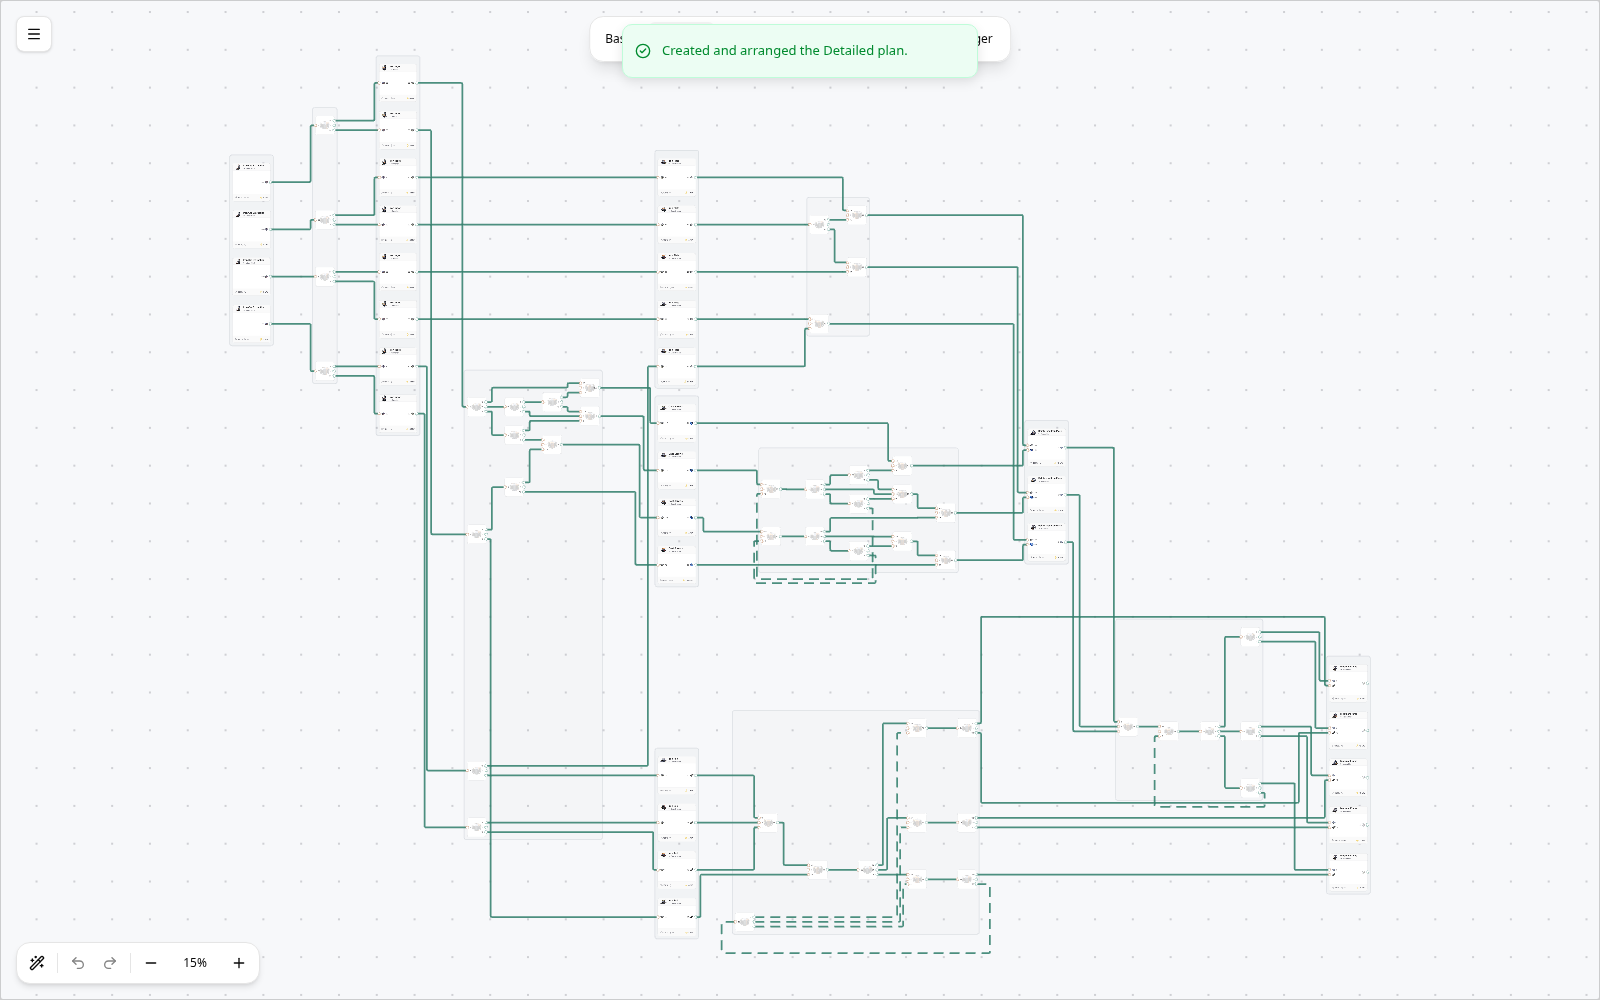
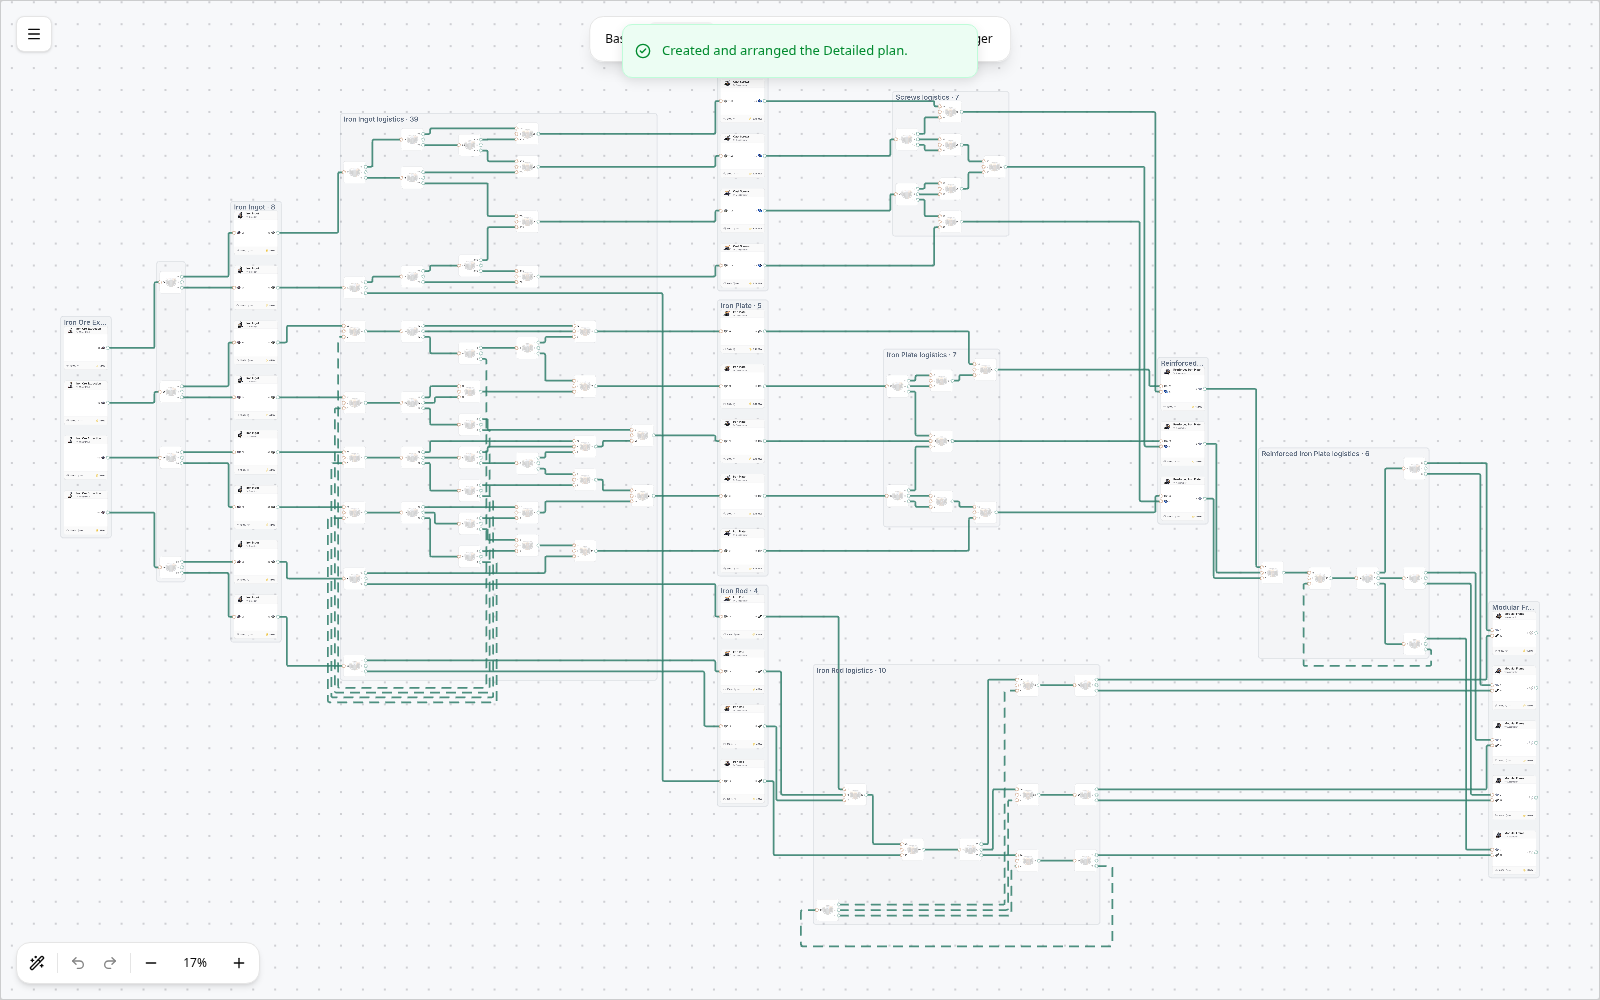
feat(planner): share machine clocks evenly and minimize generated tiers

diff --git a/packages/planning/src/generation.test.ts b/packages/planning/src/generation.test.ts
@@ -1,4 +1,5 @@
 import { describe, expect, it } from "vitest";
+import { createNode } from "@satisfactory-belt/production";
 
 import {
   analyzeBasicPlan,
@@ -13,10 +14,10 @@ const request = {
 
 describe("Plan generation", () => {
   it.each([generateBasicPlan, generateDetailedPlan])(
-    "adds machines instead of overclocking and underclocks the final instance",
+    "shares workload evenly without extra machines or overclocking",
     (generate) => {
       const { plan } = generate({
-        outputs: [{ itemId: "Desc_IronPlate_C", ratePerMinute: 50 }],
+        outputs: [{ itemId: "Desc_IronPlate_C", ratePerMinute: 90 }],
       });
       const clocks = plan.nodes.flatMap(({ configuration }) =>
         configuration.kind === "process" &&
@@ -28,13 +29,67 @@ describe("Plan generation", () => {
             )
           : [],
       );
-      expect(clocks).toEqual([100, 100, 50]);
+      expect(clocks).toEqual([90, 90, 90, 90, 90]);
+      const plates = plan.nodes
+        .filter(
+          ({ configuration }) =>
+            configuration.kind === "process" &&
+            configuration.processId === "Recipe_IronPlate_C",
+        )
+        .map(({ configuration }) => createNode(configuration));
+      expect(
+        plates.reduce(
+          (sum, node) => sum + node.profile.power.consumed.maximumMw,
+          0,
+        ),
+      ).toBeCloseTo(17.3997, 4);
+      expect(
+        plates.reduce(
+          (sum, node) =>
+            sum +
+            (node.profile.materials.kind === "calculated"
+              ? node.profile.materials.outputs[0]!.ratePerMinute
+              : 0),
+          0,
+        ),
+      ).toBeCloseTo(90, 7);
       for (const { configuration } of plan.nodes) {
         if (configuration.kind !== "process") continue;
         for (const instance of configuration.instances)
-          if ("clockSpeedPercent" in instance)
+          if ("clockSpeedPercent" in instance) {
             expect(instance.clockSpeedPercent).toBeLessThanOrEqual(100);
+            expect(instance.clockSpeedPercent).toBeGreaterThanOrEqual(1);
+          }
       }
+    },
+  );
+
+  it.each([20, 50, 60.000000001])(
+    "preserves output and machine count for %s plates/min",
+    (ratePerMinute) => {
+      const { plan } = generateBasicPlan({
+        outputs: [{ itemId: "Desc_IronPlate_C", ratePerMinute }],
+      });
+      const configuration = plan.nodes.find(
+        ({ configuration }) =>
+          configuration.kind === "process" &&
+          configuration.processId === "Recipe_IronPlate_C",
+      )!.configuration;
+      if (configuration.kind !== "process")
+        throw new Error("Expected a process");
+      expect(configuration.instances).toHaveLength(
+        ratePerMinute === 20 ? 1 : 3,
+      );
+      const materials = createNode(configuration).profile.materials;
+      if (materials.kind !== "calculated")
+        throw new Error("Expected calculated output");
+      expect(materials.outputs[0]!.ratePerMinute).toBeCloseTo(ratePerMinute, 7);
+      const clocks = configuration.instances.map((instance) =>
+        "clockSpeedPercent" in instance
+          ? instance.clockSpeedPercent
+          : undefined,
+      );
+      expect(new Set(clocks).size).toBe(1);
     },
   );
 
@@ -74,7 +129,12 @@ describe("Plan generation", () => {
     expect(
       generated.plan.connections.every(({ kind }) => kind === "conveyor"),
     ).toBe(true);
-    expect(() => analyzeDetailedPlan(generated.plan)).not.toThrow();
+    expect(analyzeDetailedPlan(generated.plan).diagnostics).toEqual([]);
+    expect(
+      generated.plan.connections.every(
+        (connection) => connection.tierId === "conveyor-mk1",
+      ),
+    ).toBe(true);
   });
 
   it("balances every split in a generated Modular Frame factory", () => {

diff --git a/apps/web/src/detailed-conversion/convert.test.ts b/apps/web/src/detailed-conversion/convert.test.ts
@@ -70,6 +70,23 @@ describe("Detailed conversion settings", () => {
       "Checking belts and pipes",
     ]);
     expect(result.tiers).toEqual(DEFAULT_LOGISTICS_TIERS);
+    const analysis = analyzeDetailedPlan(result);
+    for (const flow of analysis.connectionFlows) {
+      const connection = result.connections.find(
+        (edge) => edge.id === flow.connectionId,
+      )!;
+      const smallest = result.tiers.find(
+        (tier) =>
+          tier.medium === connection.kind &&
+          tier.capacityPerMinute + 1e-7 >= flow.ratePerMinute,
+      )!;
+      expect(connection.tierId).toBe(smallest.id);
+    }
+    expect(
+      analysis.diagnostics.filter(
+        (diagnostic) => diagnostic.code === "detailed.connection.overload",
+      ),
+    ).toEqual([]);
     expect(
       result.connections.every((connection) =>
         DEFAULT_LOGISTICS_TIERS.some(
@@ -184,11 +201,21 @@ it("enforces pipeline capacity after expanding fluid machines", async () => {
       () => {},
     ),
   ).toThrow("450/min, above its 300/min limit");
-  expect(
-    convertDetailed(
-      document,
-      defaultConversionSettings,
-      () => {},
-    ).connections.every((connection) => connection.tierId === "pipeline-mk2"),
-  ).toBe(true);
+  const upgraded = convertDetailed(
+    document,
+    { ...defaultConversionSettings, pipelineTierId: "pipeline-mk2" },
+    () => {},
+  );
+  const flows = analyzeDetailedPlan(upgraded).connectionFlows;
+  expect(flows.map((flow) => flow.ratePerMinute).sort((a, b) => a - b)).toEqual(
+    [225, 225, 450],
+  );
+  for (const connection of upgraded.connections) {
+    const rate = flows.find(
+      (flow) => flow.connectionId === connection.id,
+    )!.ratePerMinute;
+    expect(connection.tierId).toBe(
+      rate <= 300 ? "pipeline-mk1" : "pipeline-mk2",
+    );
+  }
 });

diff --git a/packages/planning/src/generation.ts b/packages/planning/src/generation.ts
@@ -6,6 +6,7 @@ import {
 
 import { createBasicPlan } from "./basic-topology";
 import { balanceDetailedConveyors } from "./conveyor-balancers";
+import { sizeDetailedConnections } from "./connection-tiers";
 import {
   assertDetailedNodeConfiguration,
   createDetailedPlan,
@@ -43,14 +44,10 @@ type TopologyResult = Readonly<{
 }>;
 
 function activityChunks(activity: number) {
-  const chunks: number[] = [];
-  let remaining = activity;
-  while (remaining > 1e-8) {
-    const chunk = Math.min(1, remaining);
-    chunks.push(chunk);
-    remaining -= chunk;
-  }
-  return chunks.length ? chunks : [1];
+  // Keep the minimum machine count under the 100% cap, then share the load.
+  // The tolerance avoids an extra machine for solver noise at whole counts.
+  const count = Math.max(1, Math.ceil(activity - 1e-8));
+  return Array.from({ length: count }, () => activity / count);
 }
 
 function processConfiguration(
@@ -335,8 +332,10 @@ export function generateDetailedPlan(
     return { ...node, configuration };
   });
   return {
-    plan: balanceDetailedConveyors(
-      createDetailedPlan({ connections, nodes, tiers }),
+    plan: sizeDetailedConnections(
+      balanceDetailedConveyors(
+        createDetailedPlan({ connections, nodes, tiers }),
+      ),
     ),
     solution,
   };

diff --git a/apps/web/e2e/detailed-conversion.spec.ts b/apps/web/e2e/detailed-conversion.spec.ts
@@ -24,9 +24,9 @@ test("converts Auto-built Modular Frames into recipe columns without duplicated 
   await page
     .getByRole("button", { name: "Create Detailed plan", exact: true })
     .click();
-  await page
-    .getByRole("combobox", { name: "Maximum conveyor speed" })
-    .selectOption("conveyor-mk1");
+  await expect(
+    page.getByRole("combobox", { name: "Maximum conveyor speed" }),
+  ).toHaveValue("conveyor-mk1");
   await page
     .getByRole("button", { name: "Create Detailed", exact: true })
     .click();
@@ -386,12 +386,12 @@ test("creates an arranged Detailed plan through speed settings and reopens it", 
   await expect(dialog.getByRole("textbox", { name: "Plan name" })).toHaveCount(
     0,
   );
-  await page
-    .getByRole("combobox", { name: "Maximum conveyor speed" })
-    .selectOption("conveyor-mk1");
-  await page
-    .getByRole("combobox", { name: "Maximum pipeline speed" })
-    .selectOption("pipeline-mk1");
+  await expect(
+    page.getByRole("combobox", { name: "Maximum conveyor speed" }),
+  ).toHaveValue("conveyor-mk1");
+  await expect(
+    page.getByRole("combobox", { name: "Maximum pipeline speed" }),
+  ).toHaveValue("pipeline-mk1");
   await page.screenshot({
     path: testInfo.outputPath("conversion-settings.png"),
   });

diff --git a/packages/planning/src/connection-tiers.ts b/packages/planning/src/connection-tiers.ts
@@ -1,0 +1,31 @@
+import { analyzeDetailedPlan } from "./detailed-flow-analysis";
+import type { DetailedPlan } from "./types";
+
+/** Size generated connections after balancing, including circulating flow.
+ * Keep the largest allowed tier on overload so validation reports the shortfall.
+ * This is a generation step; manual tier choices are never rewritten.
+ */
+export function sizeDetailedConnections(plan: DetailedPlan): DetailedPlan {
+  const rates = new Map<string, number>();
+  for (const flow of analyzeDetailedPlan(plan).connectionFlows)
+    rates.set(
+      flow.connectionId,
+      (rates.get(flow.connectionId) ?? 0) + flow.ratePerMinute,
+    );
+  const tiers = plan.tiers.toSorted(
+    (a, b) =>
+      a.capacityPerMinute - b.capacityPerMinute || a.id.localeCompare(b.id),
+  );
+  return {
+    ...plan,
+    connections: plan.connections.map((connection) => {
+      const rate = rates.get(connection.id);
+      if (rate === undefined) return connection;
+      const available = tiers.filter((tier) => tier.medium === connection.kind);
+      const tier =
+        available.find((tier) => tier.capacityPerMinute + 1e-7 >= rate) ??
+        available.at(-1)!;
+      return { ...connection, tierId: tier.id };
+    }),
+  };
+}

diff --git a/apps/web/src/components/create-detailed-dialog.tsx b/apps/web/src/components/create-detailed-dialog.tsx
@@ -136,9 +136,10 @@ export function CreateDetailedDialog({ sourceName, onClose, onCreate }: Props) {
             })}
             <p className="text-muted-foreground">
               Shared conveyor supply is divided into parallel balanced lines.
-              Each machine’s individual port must still fit the selected speed.
-              These limits apply only to conversion. Afterwards, new links start
-              at Mk.1 and you can choose any tier in the link inspector.
+              Each connection uses the lowest tier that carries its flow. Each
+              machine’s individual port must still fit the selected speed. These
+              limits apply only to conversion. Afterwards, new links start at
+              Mk.1 and you can choose any tier in the link inspector.
             </p>
           </fieldset>
           {error && (

diff --git a/apps/web/src/canvas/editor-mode.ts b/apps/web/src/canvas/editor-mode.ts
@@ -2,6 +2,7 @@ import { spaceRouterPorts } from "./router-port-spacing";
 import {
   analyzeBasicPlan,
   balanceDetailedConveyors,
+  sizeDetailedConnections,
   assertDetailedNodeConfiguration,
   createBasicPlan,
   createDetailedPlan,
@@ -538,12 +539,14 @@ export function materializeDetailedCanvas(
     };
   });
   options.onStage?.("Building balancers");
-  const balanced = balanceDetailedConveyors(
-    createDetailedPlan({
-      connections: materialLinks.map(physicalConnection),
-      nodes: detailedNodes,
-      tiers,
-    }),
+  const balanced = sizeDetailedConnections(
+    balanceDetailedConveyors(
+      createDetailedPlan({
+        connections: materialLinks.map(physicalConnection),
+        nodes: detailedNodes,
+        tiers,
+      }),
+    ),
   );
 
   const physicalById = new Map(

diff --git a/apps/web/e2e/auto-build.spec.ts b/apps/web/e2e/auto-build.spec.ts
@@ -54,6 +54,15 @@ test("auto-builds multiple outputs with an alternative recipe and adds independe
     .poll(async () => (await readDocument())?.nodes.length ?? 0)
     .toBeGreaterThan(5);
   const first = await readDocument();
+  for (const node of first.nodes) {
+    expect(
+      new Set(
+        node.configuration.instances.map(
+          (instance: any) => instance.clockSpeedPercent,
+        ),
+      ).size,
+    ).toBe(1);
+  }
   expect(
     first.nodes.every((node: any) =>
       node.configuration.instances.every(

diff --git a/apps/web/src/components/create-detailed-dialog.test.tsx b/apps/web/src/components/create-detailed-dialog.test.tsx
@@ -24,6 +24,12 @@ describe("Create Detailed dialog", () => {
         onCreate={onCreate}
       />,
     );
+    expect(
+      screen.getByRole("combobox", { name: "Maximum conveyor speed" }),
+    ).toHaveValue("conveyor-mk1");
+    expect(
+      screen.getByRole("combobox", { name: "Maximum pipeline speed" }),
+    ).toHaveValue("pipeline-mk1");
     fireEvent.change(
       screen.getByRole("combobox", { name: "Maximum conveyor speed" }),
       { target: { value: "conveyor-mk3" } },

diff --git a/apps/web/src/detailed-conversion/convert.ts b/apps/web/src/detailed-conversion/convert.ts
@@ -18,8 +18,8 @@ export type ConversionSettings = Readonly<{
   pipelineTierId: string;
 }>;
 export const defaultConversionSettings: ConversionSettings = {
-  conveyorTierId: "conveyor-mk6",
-  pipelineTierId: "pipeline-mk2",
+  conveyorTierId: "conveyor-mk1",
+  pipelineTierId: "pipeline-mk1",
 };
 
 export function convertDetailed(

diff --git a/packages/planning/src/index.ts b/packages/planning/src/index.ts
@@ -26,6 +26,7 @@ export {
 } from "./detailed-plan";
 export { analyzeDetailedPlan } from "./detailed-flow-analysis";
 export { balanceDetailedConveyors } from "./conveyor-balancers";
+export { sizeDetailedConnections } from "./connection-tiers";
 export {
   affectedDetailedRegion,
   createDetailedPlanIndex,

diff --git a/README.md b/README.md
@@ -112,6 +112,10 @@ button then becomes **Detailed** and reopens the saved version, including after 
 reload. Basic and Detailed still use linked saved documents; this conversion flow
 does not migrate them into one save record.
 
+The conversion dialog defaults to Mk.1 conveyors and pipes. Higher maximum
+tiers can be selected; each generated connection uses the lowest available tier
+that carries its flow, including feedback circulation.
+
 Detailed generation and Basic-to-Detailed conversion use conveyor balancers:
 every connected output of an ordinary splitter gets an equal share. Splitter
 trees and mergers combine those shares to meet individual machine demands,
@@ -133,8 +137,9 @@ allow alternative recipes, or require specific recipes for outputs and ingredien
 Basic generation connects process groups directly, leaving physical distribution
 to Detailed conversion (self-returning materials still need a routing node because
 Basic links cannot connect a process to itself). Generated machine clocks never
-exceed 100%; larger rates add machines, with a partially used final instance
-underclocked as needed. Auto-build extractor clock budgets are also capped at 100%.
+exceed 100%; the minimum required machine count shares the workload evenly.
+For example, 90 plates/min uses five constructors at 90%, reducing power while
+keeping the same output and machine count. Auto-build extractor clock budgets are also capped at 100%.
 Direct extraction supplies raw resources by default; enabled alternatives get first
 consideration among manufacturing recipes. Available resource nodes can limit each
 generated group to listed mineral and oil nodes, with extractor tiers, purity counts,
